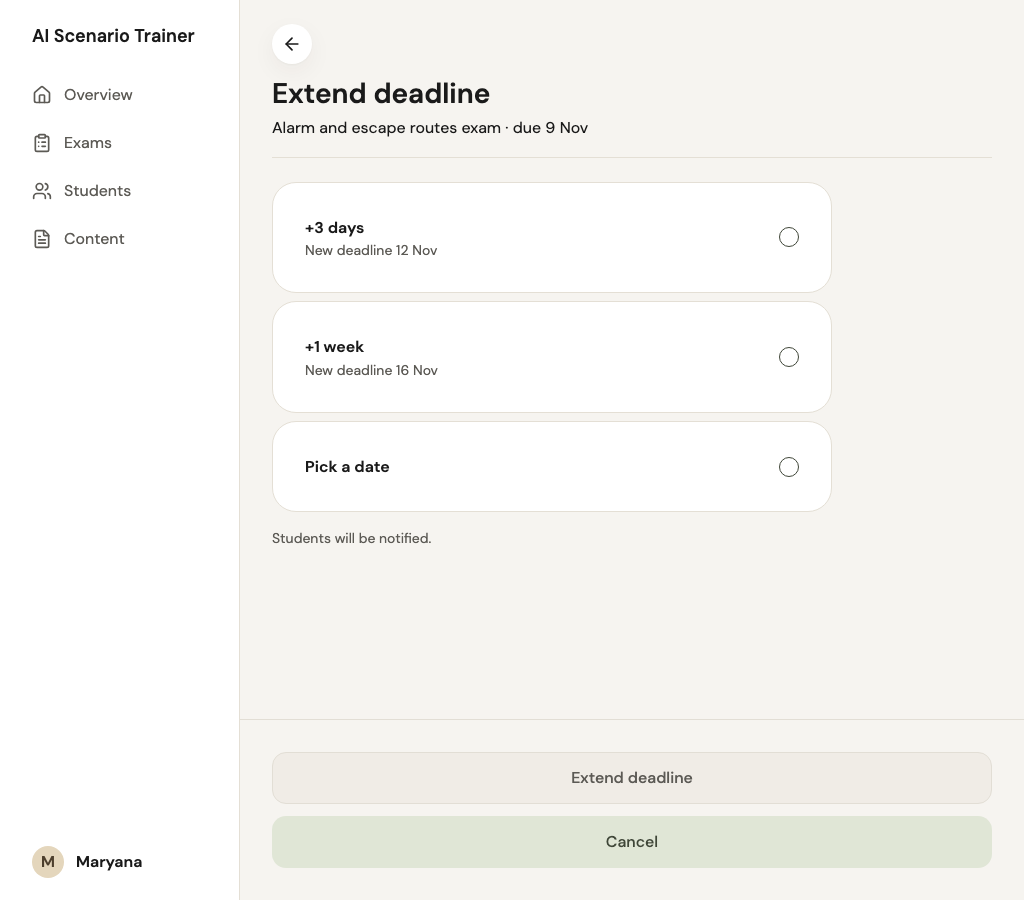
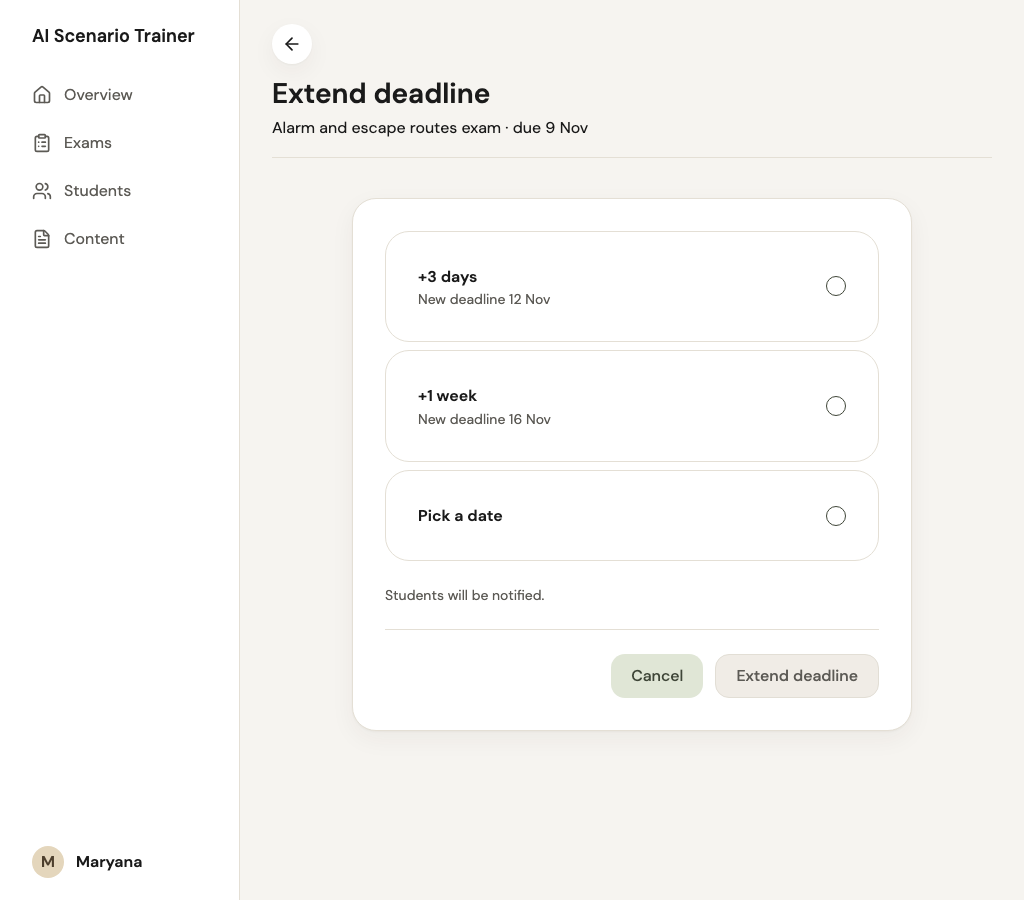
docs: step 6 layouts, pictures and review page

diff --git a/app/screens/page.tsx b/app/screens/page.tsx
@@ -113,8 +113,14 @@ const desktopPictures = [
   ["instructor-topic-details-edit", "Edit title and summary"],
   ["instructor-topic-item-edit", "Question edit"],
   ["instructor-content-set-review", "Question-set review (table)"],
-  ["instructor-topic-preview", "Preview as student (framed)"],
-  ["instructor-exam-assign", "Assign exam (pinned bar, dialog in step 6)"],
+  ["instructor-assign-filled", "Assign exam (form card)"],
+  ["instructor-assign-discard", "Assign exam, discard dialog"],
+  ["instructor-exam-extend", "Extend deadline"],
+  ["instructor-students-invite", "Invite students"],
+  ["instructor-review-walkthrough", "Draft review walk-through"],
+  ["instructor-profile", "Profile"],
+  ["instructor-profile-edit", "Edit profile"],
+  ["instructor-preview-framed", "Preview as student (bar inside the frame)"],
   ["instructor-dialog", "A dialog"],
   ["instructor-notice", "The floating notice under the header"],
 ] as const;

diff --git a/DESIGN.md b/DESIGN.md
@@ -1146,8 +1146,16 @@ The values below are read from `app/globals.css`. When a brief or an older note 
 ## Responsive instructor, step 5: the Content area (3 Nov 2026)
 - Content list (from 1024px): "Import content" is the one Primary, in the header (the avatar beside it). YOUR TOPICS is a card grid (2 columns, 3 from a content width of 1100px); the empty state is the 3D picture, centred, at most 640px; "Course topics (n)" is a full-width card under the grid and the prototype note is at most 640px. Course topics is a card grid of the same columns; a course topic is a column of at most 880px with the tab bar (Overview, Steps) where a step guide exists.
 - One-card flows (import start, analysing, "Draft is ready"): one white card centred in the content column, at most 640px, about 48px under the header. The screen's actions close the card after a 1px divider (`CardFooter`: Secondary on the left, Primary on the right, 44px, auto width); the pinned bar is not drawn from 1024px (`ActionBar hideOnDesk`). The import summary keeps its icon rows inside the card. The old question-set import is retired and redirects to Import content.
-- Topic screen: Back, the topic name as the title, the status chip (Draft or Published) with "Last edited" under the subtitle, and the actions in the header (Publish or "Review N items" as the one Primary, "Preview as student" and the "More actions" menu as before). The four tabs are the desktop tab bar (`TabBar`, role tablist, an underline of 2px Primary on the active tab, sand hover, focus ring, arrow keys, Home and End); the phone keeps the segmented control. Tab content is a column of at most 880px. Guide and Scenario stay cards; Steps and Questions are shared DataTables (Question: number and text; Type; Guide section as a chip; To check; a row opens the item's edit screen unless the topic is published).
+- Topic screen: Back, the topic name as the title, the status chip (Draft or Published) with "Last edited" under the subtitle, and the actions in the header (Publish or "Review N items" as the one Primary, "Preview as student" and the "More actions" menu as before). The four tabs are the desktop tab bar (`TabBar`, role tablist, an underline of 2px Primary on the active tab, sand hover, focus ring, arrow keys, Home and End); the phone keeps the segmented control. Tab content is a column of at most 880px. Guide and Scenario stay cards; Steps and Questions are shared DataTables (Question: number and text, two lines at most; Guide section as a chip; To check; a row opens the item's edit screen unless the topic is published).
 - Edit screens (topic details, item, question): a form column of at most 720px (fields at most 560px except long text, 720px), labels above fields, Save as the Primary and Cancel or Delete as Secondary in the header; the floating notice stays under the header. Single-choice cards, dropdowns and centred dialogs are unchanged; nothing is a sheet.
 - Review: the question-set review is a counts card, the All and Needs attention control (320px) and a DataTable (Question, Status, To fix); Publish and Delete set are in the header and the publish hint is a line above the table. The summary of a guided review keeps its list and its actions in the header.
 - Preview as student: from 1024px the student screen is drawn inside a framed 430px column (1px border, soft shadow, radius 24px) and "Exit preview" (Secondary) is above it. Inside the frame the phone layout is kept: the `idesk:` variant is never true inside `[data-phone-frame]`. The student's own pinned bar (Check, Next) is still drawn at the bottom of the content column, outside the frame.
 - Student detail: one merged TOPICS table with a Status column (Needs review first, then On track and Not practised; sortable); a student with no answers has one card "No practice yet" ("Practice results will appear here once the student starts.") on the phone and on desktop; the 72px readiness ring is left of the percentage; the exam table's last column is "Result" and only carries the score or the start time (no repeat of the status); the Students status menu flips to the right edge when it would leave the content area.
+
+## Responsive instructor, step 6: forms, review walk-through, Profile and the preview frame (3 Nov 2026)
+- Form cards (`FlowCard`): from 1024px the content of Assign exam (640px), Extend deadline and Invite students (560px) is ONE white card centred under the page header (Back and the title stay in the header); the inner section cards are flattened so there are no cards in cards; the actions close the card after a 1px divider (Secondary left, Primary right, 44px, auto width) and the pinned bar is not drawn from 1024px. The topics of Assign exam are in two columns. The phone is unchanged: below 1024px the card is invisible and the pinned bar is used. Forms stay real pages (same routes and links).
+- Pickers: none of these screens opens a full-screen picker on the phone (topics, deadline, attempts and audience are inline choices), so no centred picker dialog was needed; the only dialogs are the existing centred confirmations (Discard, Send reminder, Close exam), which already open centred, with a scrim over the whole window, a focus trap, Escape and focus return.
+- Draft-review walk-through: the item edit of a guided review is a 640px card with "1 of 10" at the top and Skip (Secondary, left) and "Save and next" or "Mark as OK" (Primary, right) in the card footer. An item edit opened from a card keeps the header actions.
+- Profile (instructor shell): a column of at most 720px with the same rows as the phone, the Demo mode control 320px wide; Edit profile fields at most 560px with Save at its natural width; About at most 720px. The instructor's Profile shows no student-only rows (Field of work, Certificates, Direction).
+- Preview as student: the student's pinned bar (Check, Next) is drawn at the bottom INSIDE the framed phone (`PreviewFrame`; the bar is portalled into the frame's own slot and the window's copy is hidden from 1024px); the step strip centres its current square again when its width changes, so the first number is never clipped.
+- Question table: no Type column (every question is a single-choice question), the question text may take two lines and that column takes the most room.
